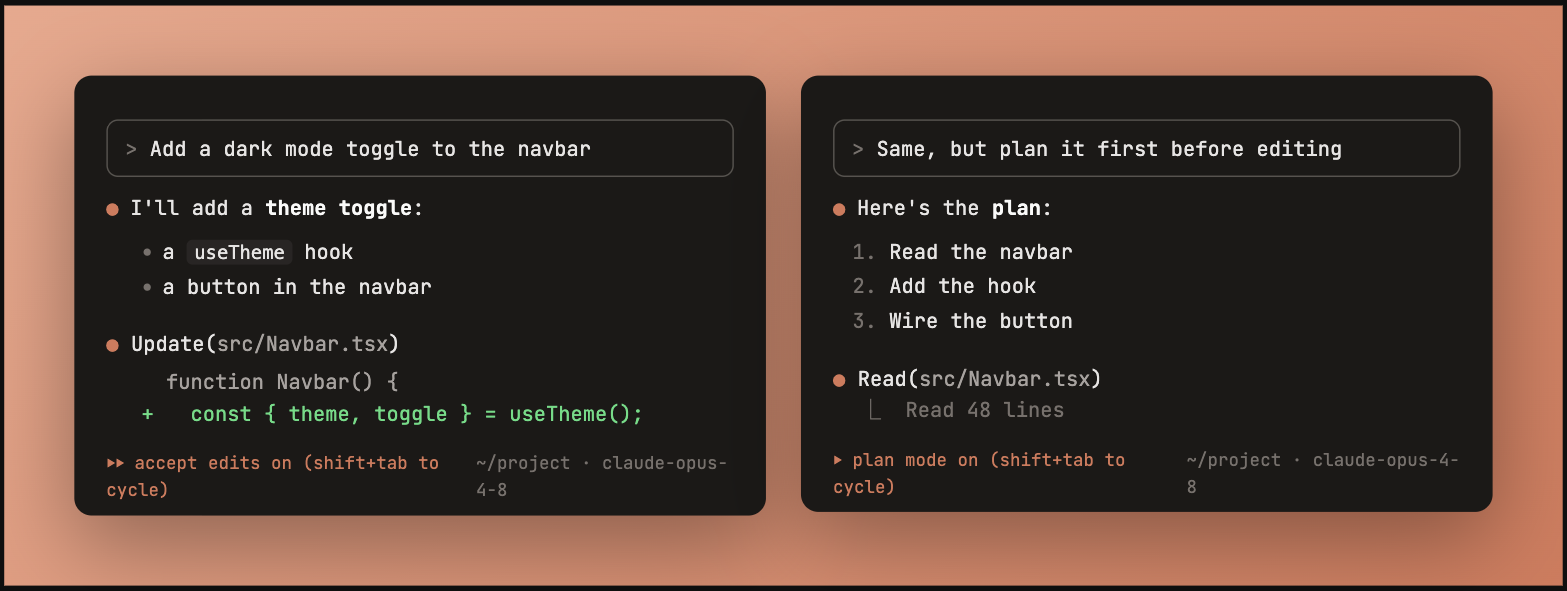
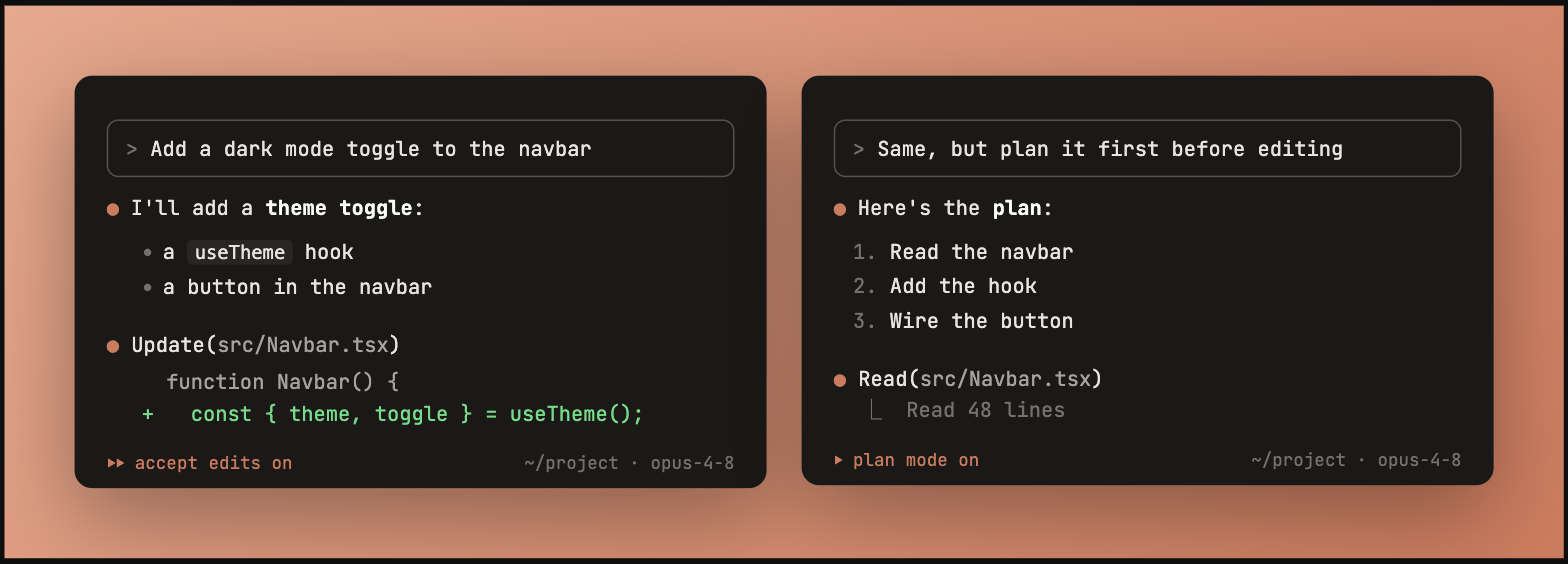
Compact status bar: drop shift+tab hint, shorten model label
- permissionLabel drops "(shift+tab to cycle)" so the status bar fits one line
- default model label is now "opus-4-8" (was "claude-opus-4-8")
- refreshed README screenshots

diff --git a/src/state/docStore.ts b/src/state/docStore.ts
@@ -78,7 +78,7 @@ export function loadDoc(): Doc {
 
 export function seedDoc(): Doc {
   const w0: TerminalWindow = {
-    permissionMode: "acceptEdits", cwd: "~/project", model: "claude-opus-4-8",
+    permissionMode: "acceptEdits", cwd: "~/project", model: "opus-4-8",
     blocks: [
       { id: "a1", type: "userPrompt", text: "Add a dark mode toggle to the navbar" },
       { id: "a2", type: "assistant", markdown: "I'll add a **theme toggle**:\n\n- a `useTheme` hook\n- a button in the navbar" },
@@ -89,7 +89,7 @@ export function seedDoc(): Doc {
     ],
   };
   const w1: TerminalWindow = {
-    permissionMode: "plan", cwd: "~/project", model: "claude-opus-4-8",
+    permissionMode: "plan", cwd: "~/project", model: "opus-4-8",
     blocks: [
       { id: "b1", type: "userPrompt", text: "Same, but plan it first before editing" },
       { id: "b2", type: "assistant", markdown: "Here's the **plan**:\n\n1. Read the navbar\n2. Add the hook\n3. Wire the button" },

diff --git a/src/terminal/theme.test.ts b/src/terminal/theme.test.ts
@@ -5,15 +5,15 @@ test("normal mode has empty label", () => {
 });
 
 test("acceptEdits label", () => {
-  expect(permissionLabel("acceptEdits")).toBe("⏵⏵ accept edits on (shift+tab to cycle)");
+  expect(permissionLabel("acceptEdits")).toBe("⏵⏵ accept edits on");
 });
 
 test("plan label", () => {
-  expect(permissionLabel("plan")).toBe("⏵ plan mode on (shift+tab to cycle)");
+  expect(permissionLabel("plan")).toBe("⏵ plan mode on");
 });
 
 test("bypassPermissions label", () => {
-  expect(permissionLabel("bypassPermissions")).toBe("⏵⏵ bypass permissions on (shift+tab to cycle)");
+  expect(permissionLabel("bypassPermissions")).toBe("⏵⏵ bypass permissions on");
 });
 
 test("bypassPermissions renders in red", () => {

diff --git a/src/terminal/theme.ts b/src/terminal/theme.ts
@@ -14,9 +14,9 @@ export const THEME = {
 export function permissionLabel(mode: PermissionMode): string {
   switch (mode) {
     case "normal": return "";
-    case "acceptEdits": return "⏵⏵ accept edits on (shift+tab to cycle)";
-    case "plan": return "⏵ plan mode on (shift+tab to cycle)";
-    case "bypassPermissions": return "⏵⏵ bypass permissions on (shift+tab to cycle)";
+    case "acceptEdits": return "⏵⏵ accept edits on";
+    case "plan": return "⏵ plan mode on";
+    case "bypassPermissions": return "⏵⏵ bypass permissions on";
   }
 }
 

diff --git a/src/state/types.test.ts b/src/state/types.test.ts
@@ -17,7 +17,7 @@ test("BLOCK_TYPES lists all six block types", () => {
 });
 
 test("newWindow is an empty window with normal mode", () => {
-  expect(newWindow()).toEqual({ blocks: [], permissionMode: "normal", cwd: "~/project", model: "claude-opus-4-8" });
+  expect(newWindow()).toEqual({ blocks: [], permissionMode: "normal", cwd: "~/project", model: "opus-4-8" });
 });
 
 test("defaultFrame is coral/auto/single", () => {

diff --git a/src/state/types.ts b/src/state/types.ts
@@ -59,7 +59,7 @@ export interface Doc {
 }
 
 export function newWindow(): TerminalWindow {
-  return { blocks: [], permissionMode: "normal", cwd: "~/project", model: "claude-opus-4-8" };
+  return { blocks: [], permissionMode: "normal", cwd: "~/project", model: "opus-4-8" };
 }
 
 export function defaultFrame(): FrameSettings {
